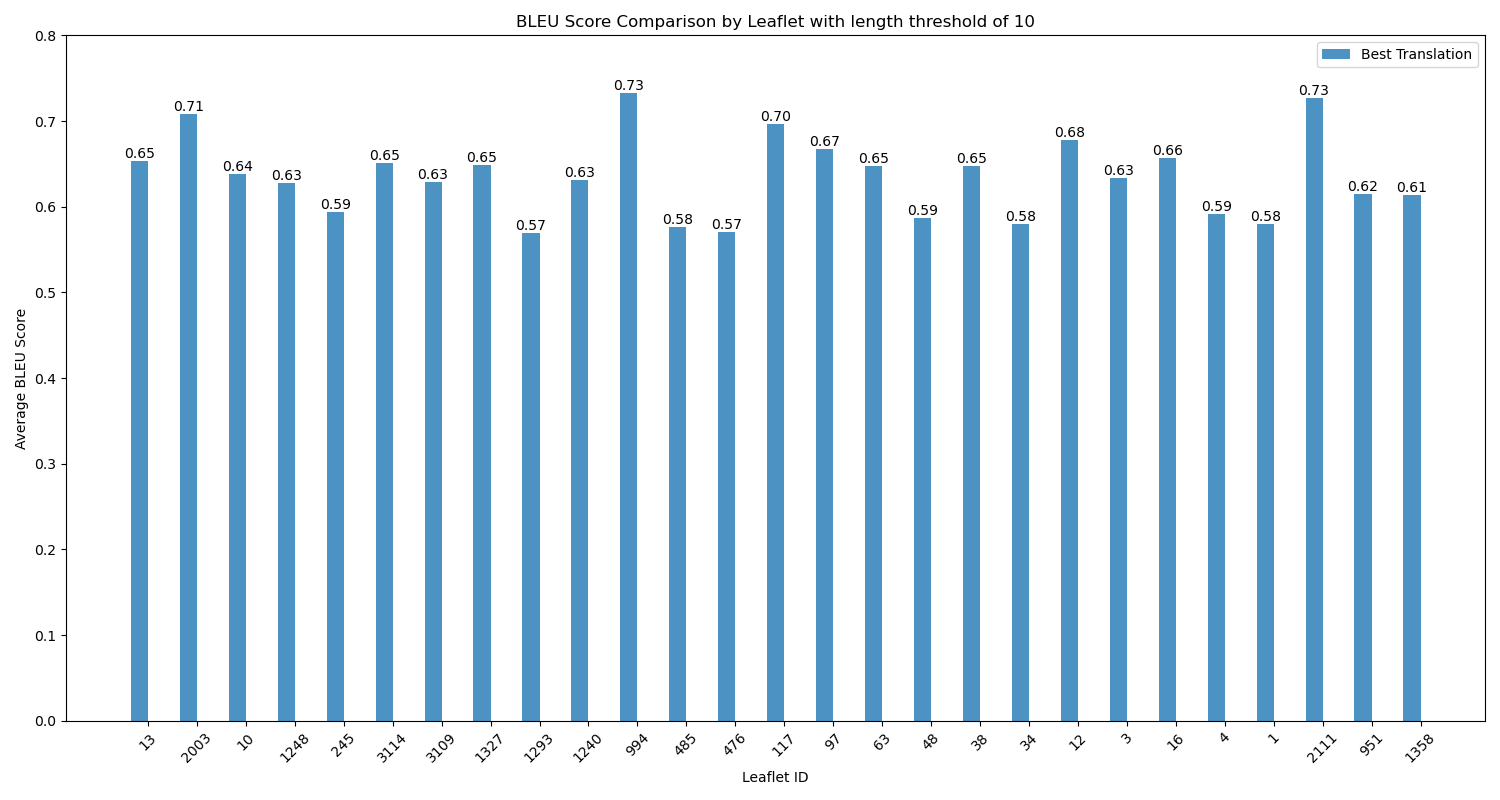
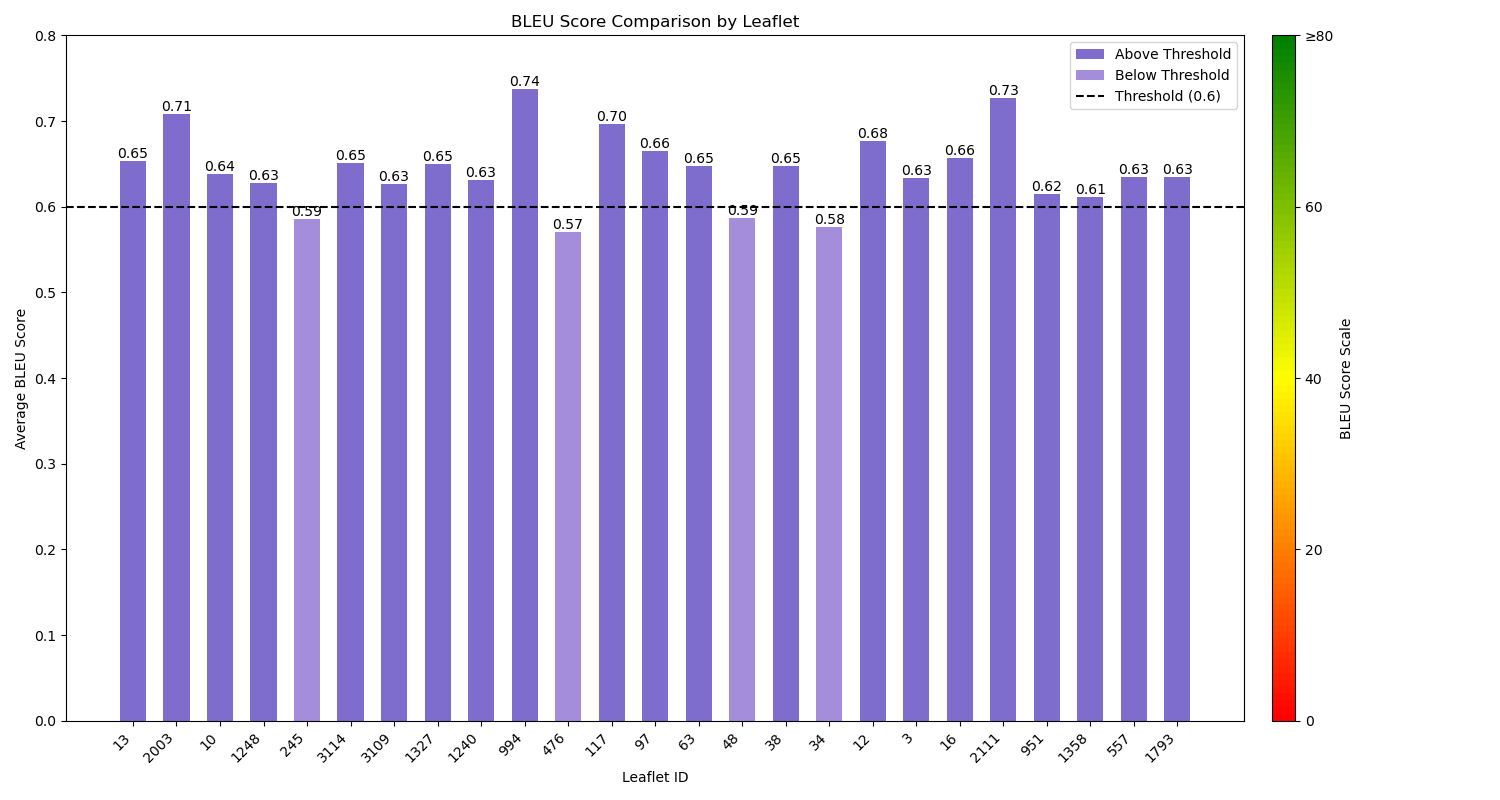
Final version of plot_bleu

diff --git a/flask_backend/plot_bleu.py b/flask_backend/plot_bleu.py
@@ -6,10 +6,10 @@ from pathlib import Path
 from utils.constants import BLEUScoreType
 from database.mongodb_client import MongoDBClient
 from data.entities import TranslationRecordEntity, TranslationEntity
+from matplotlib.colors import LinearSegmentedColormap
+
 
 mongo_client = MongoDBClient()
-len_threshold = 10
-score_threshold = 0.00
 
 
 def generate_bleu_report(records: List[Dict[str, Any]]) -> Dict[str, Any]:
@@ -18,6 +18,8 @@ def generate_bleu_report(records: List[Dict[str, Any]]) -> Dict[str, Any]:
     try:
         best_translation_report = calculate_bleu_scores(records)
         generate_bleu_leaflet_comparison_plot(best_translation_report)
+        generate_bleu_section_comparison_plot(best_translation_report)
+
     except Exception as e:
         print(f"Error processing BLEU : {str(e)}")
 
@@ -27,15 +29,9 @@ def calculate_bleu_scores(records: List[TranslationRecordEntity]) -> Dict[str, A
     leaflet_scores = defaultdict(list)
     section_scores = defaultdict(list)
 
-    bleu_scores = []
     for record in records:
-        bleu_scores = [get_bleu_score(translation) for translation in record.translations]
-        bleu_scores.append(get_bleu_score(record.best_translation))
-        bleu_scores = [score for score in bleu_scores if score is not None]
-        bleu_score = max(bleu_scores)
+        bleu_score = get_bleu_score(record.best_translation)
         if bleu_score is not None:
-            if bleu_score < score_threshold:
-                print(f"{record.evaluation_leaflet_data.leaflet_id}, {record.evaluation_leaflet_data.section_number}[{record.evaluation_leaflet_data.array_location}]. Low BLEU score found: {bleu_score}")
             update_scores(record, bleu_score, leaflet_scores, section_scores)
 
     avg_leaflet_scores = calculate_average_scores(leaflet_scores)
@@ -58,18 +54,13 @@ def get_bleu_score(translation: TranslationEntity) -> float:
     
     bleu = translation.evaluation_scores.get('bleu')
     if bleu:
-        if len(translation.translated_text) > len_threshold:
-            scores = [bleu.get(bleu_type, None) for bleu_type in BLEUScoreType.get_types_tokenized()]
-            scores = [score for score in scores if score is not None]
-            if not scores or len(scores) == 0:
-                return bleu.get(BLEUScoreType.PLAIN_CORPUS.value, None)
-            bleu_score = max(scores)
-            if bleu_score > score_threshold:
-                return bleu_score
-            else:
-                return bleu.get(BLEUScoreType.PLAIN_CORPUS.value, None)
-        else:
+        scores = [bleu.get(bleu_type, None) for bleu_type in BLEUScoreType.get_types_tokenized()]
+        scores = [score for score in scores if score is not None]
+        if not scores or len(scores) == 0:
             return bleu.get(BLEUScoreType.PLAIN_CORPUS.value, None)
+        bleu_score = max(scores)
+        return bleu_score
+    
     return None
 
 def update_scores(record: TranslationRecordEntity, bleu_score: float, leaflet_scores: Dict[str, List[float]], section_scores: Dict[str, List[float]]):
@@ -106,25 +97,110 @@ def generate_bleu_leaflet_comparison_plot(best_translation_report: Dict[str, Any
     leaflets = list(best_translation_report['avg_leaflet_scores'].keys())
     best_scores = [best_translation_report['avg_leaflet_scores'][leaflet] for leaflet in leaflets]
 
-    plt.figure(figsize=(15, 8))
-    bar_width = 0.35
+    fig, ax = plt.subplots(figsize=(15, 8))
+    bar_width = 0.6
     index = np.arange(len(leaflets))
 
-    best_bars = plt.bar(index, best_scores, bar_width, label='Best Translation', alpha=0.8)
+    # Define colors for bars above and below threshold
+    above_color = '#5E48C0'     # Dark purple
+    below_color = '#8D71D2'     # Light purple
+    threshold = 0.6
+
+    # Create custom colormap for background
+    colors = ['red', 'yellow', 'green']
+    n_bins = 100
+    cmap = LinearSegmentedColormap.from_list('custom', colors, N=n_bins)
+
+    # # Create vertical background color scale with 20% opacity and inverted colors
+    # background = ax.imshow([[1 - i/n_bins] for i in range(n_bins)], cmap=cmap, aspect='auto', 
+    #                        extent=[-0.5, len(leaflets)-0.5, 0, 0.8], alpha=0.1)
+
+    # Create bars with colors based on threshold, centered on tick marks
+    best_bars = ax.bar(index, best_scores, bar_width, 
+                       color=[above_color if score >= threshold else below_color for score in best_scores],
+                       alpha=0.8)
 
     add_bar_labels(best_bars)
 
-    plt.xlabel('Leaflet ID')
-    plt.ylabel('Average BLEU Score')
-    plt.title(f'BLEU Score Comparison by Leaflet with length threshold of {len_threshold}')
-    plt.xticks(index + bar_width/2, leaflets, rotation=45)
-    plt.legend()
+    ax.set_xlabel('Leaflet ID')
+    ax.set_ylabel('Average BLEU Score')
+    ax.set_title('BLEU Score Comparison by Leaflet')
+    ax.set_xticks(index)
+    ax.set_xticklabels(leaflets, rotation=45, ha='right')
     
-    plt.ylim(0, 0.8)
+    ax.set_ylim(0, 0.8)
     
+    # Add threshold line
+    ax.axhline(y=threshold, color='black', linestyle='--', label=f'Threshold ({threshold})', )
+    
+    # Create legend
+    ax.legend([plt.Rectangle((0,0),1,1,fc=above_color, alpha=0.8),
+               plt.Rectangle((0,0),1,1,fc=below_color, alpha=0.8),
+               plt.Line2D([0], [0], color='black', linestyle='--')],
+              ['Above Threshold', 'Below Threshold', f'Threshold ({threshold})'])
+    
+    # Add color scale
+    cbar = fig.colorbar(plt.cm.ScalarMappable(cmap=cmap), ax=ax, orientation='vertical', aspect=30, pad=0.02)
+    cbar.set_label('BLEU Score Scale')
+    cbar.set_ticks([0, 0.25, 0.5, 0.75, 1])
+    cbar.set_ticklabels(['0', '20', '40', '60', '≥80'])
+
     plt.tight_layout()
 
     output_path = save_plot('bleu_leaflets_scores')
+    print(f"Plot saved successfully: {output_path}")
+
+def generate_bleu_section_comparison_plot(best_translation_report: Dict[str, Any]):
+    sections = list(best_translation_report['avg_section_scores'].keys())
+    best_scores = [best_translation_report['avg_section_scores'][section] for section in sections]
+
+    fig, ax = plt.subplots(figsize=(15, 8))
+    bar_width = 0.6
+    index = np.arange(len(sections))
+
+    # Define colors for bars above and below threshold
+    above_color = '#5E48C0'     # Dark purple
+    below_color = '#8D71D2'     # Light purple
+    threshold = 0.6
+
+    # Create custom colormap for background
+    colors = ['red', 'yellow', 'green']
+    n_bins = 100
+    cmap = LinearSegmentedColormap.from_list('custom', colors, N=n_bins)
+
+    # Create bars with colors based on threshold, centered on tick marks
+    best_bars = ax.bar(index, best_scores, bar_width, 
+                       color=[above_color if score >= threshold else below_color for score in best_scores],
+                       alpha=0.8)
+
+    add_bar_labels(best_bars)
+
+    ax.set_xlabel('Section Number')
+    ax.set_ylabel('Average BLEU Score')
+    ax.set_title('BLEU Score Comparison by Section')
+    ax.set_xticks(index)
+    ax.set_xticklabels(sections, rotation=45, ha='right')
+    
+    ax.set_ylim(0, 0.8)
+    
+    # Add threshold line
+    ax.axhline(y=threshold, color='black', linestyle='--', label=f'Threshold ({threshold})')
+    
+    # Create legend
+    ax.legend([plt.Rectangle((0,0),1,1,fc=above_color, alpha=0.8),
+               plt.Rectangle((0,0),1,1,fc=below_color, alpha=0.8),
+               plt.Line2D([0], [0], color='black', linestyle='--')],
+              ['Above Threshold', 'Below Threshold', f'Threshold ({threshold})'])
+    
+    # Add color scale
+    cbar = fig.colorbar(plt.cm.ScalarMappable(cmap=cmap), ax=ax, orientation='vertical', aspect=30, pad=0.02)
+    cbar.set_label('BLEU Score Scale')
+    cbar.set_ticks([0, 0.25, 0.5, 0.75, 1])
+    cbar.set_ticklabels(['0', '20', '40', '60', '≥80'])
+
+    plt.tight_layout()
+
+    output_path = save_plot('bleu_sections_scores')
     print(f"Plot saved successfully: {output_path}")
 
 def add_bar_labels(bars):
